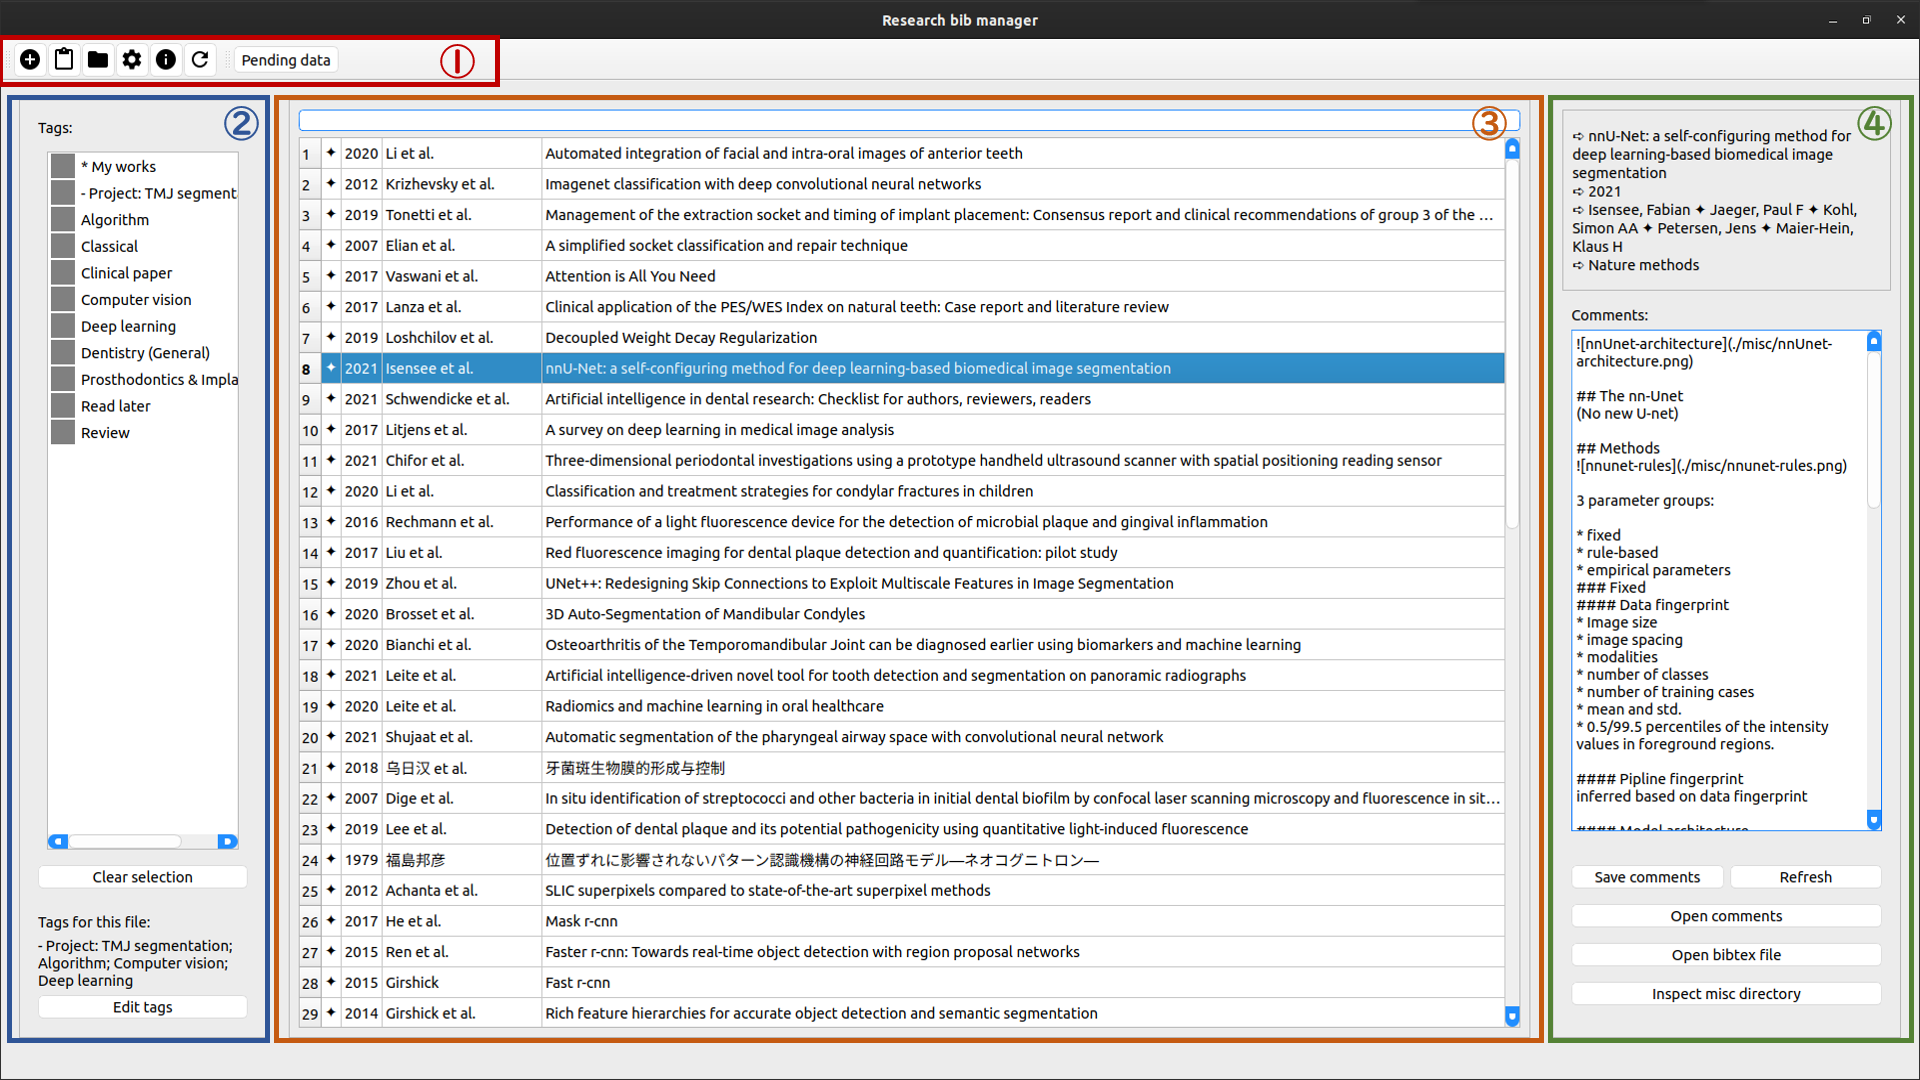
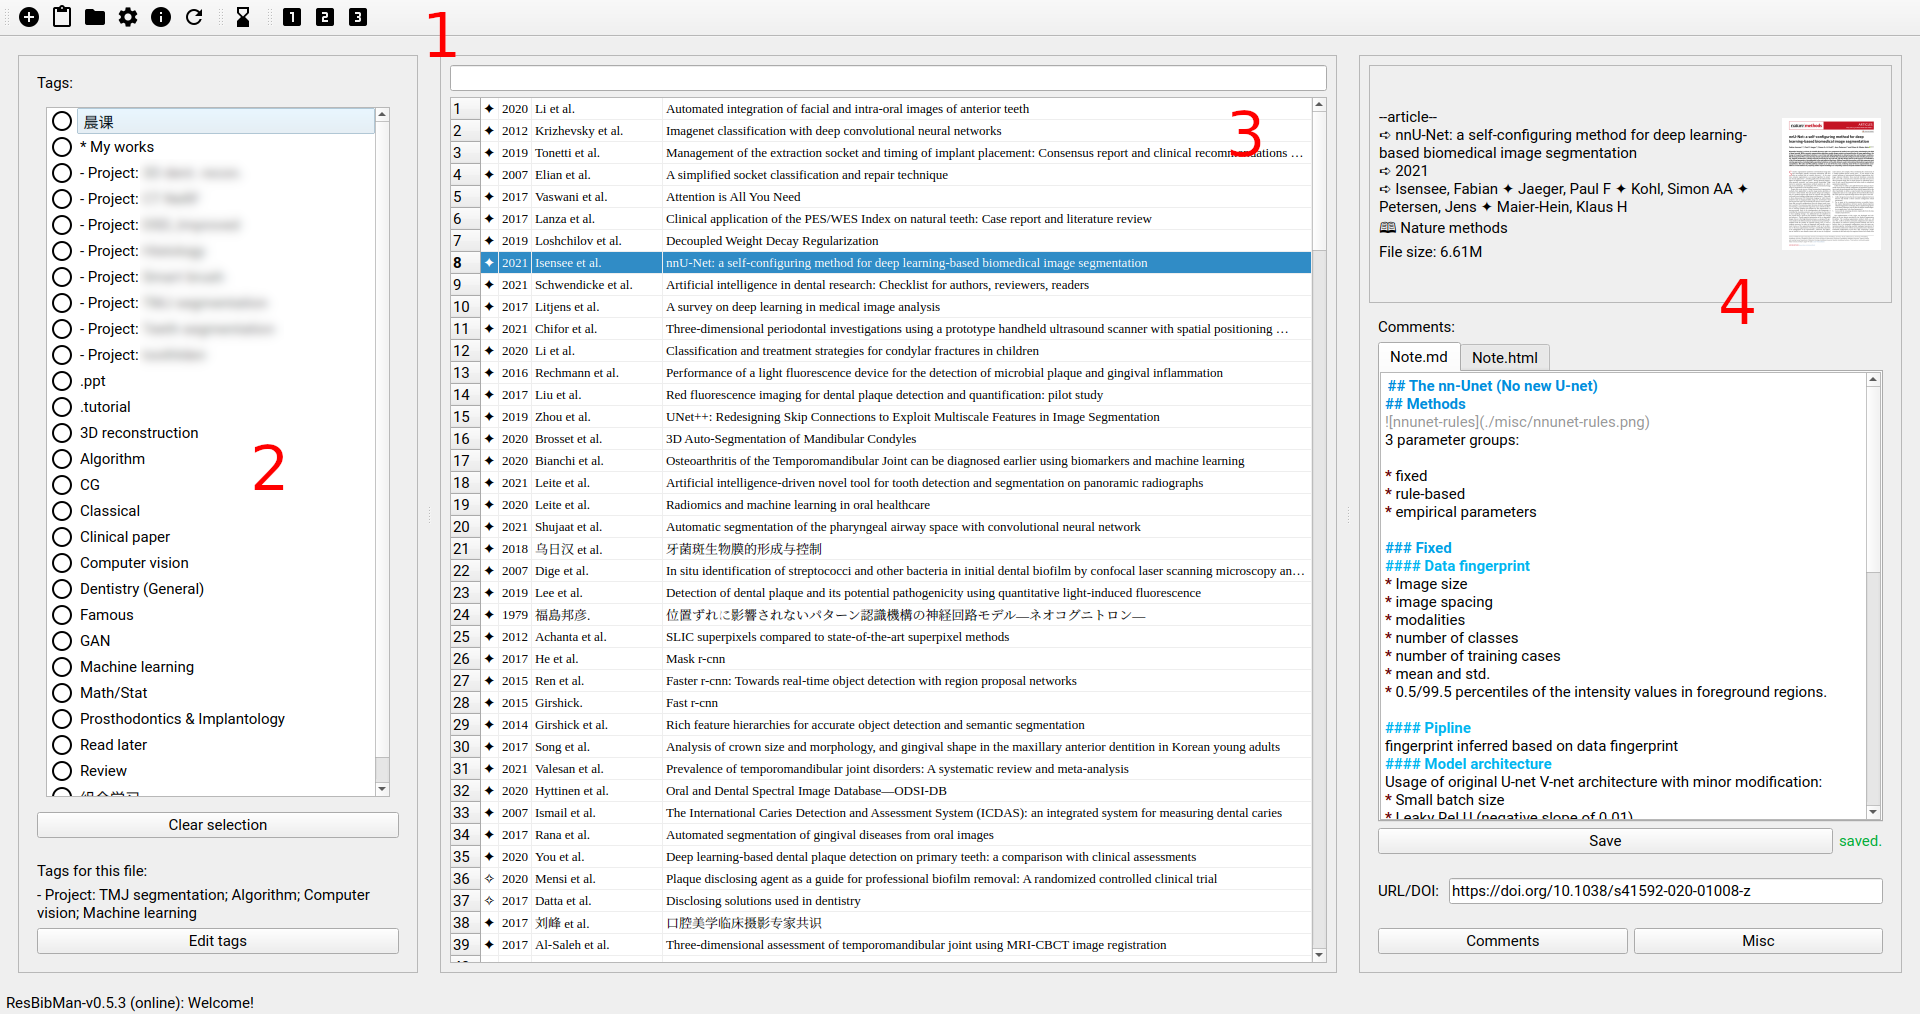
doc: doc update

diff --git a/resbibman/docs/使用说明.md b/resbibman/docs/使用说明.md
@@ -1,10 +1,11 @@
 # 使用说明
 
-软件版本：0.2.6
+软件版本：0.5.3
 
 ## 概述
 
-		ResBibMan (Research bibliography manager) 软件为一款轻量级文献储存和管理软件，该软件依赖bibtex文件进行文献信息管理，以Markdown作为阅读笔记形式，利用不同的标签（tag）对文献类型进行区分，简单易用。
+ResBibMan (Research bibliography manager, resbibman) 软件为一款轻量级文献储存和管理软件，该软件依赖Bibtex文件进行文献信息管理，以Markdown作为阅读笔记形式，利用不同的标签（tag）对文献类型进行区分。  
+RBMWeb为resbibman软件的网络应用，可以提供文献分享、在线同步、在线阅读等网络服务。
 
 （注：1. 本文档中文献/文档指同一内容；2. 当前显示文档指当前文档选择模块中显示的文档；3. 选中文档指当前文档中被选中的文献）
 
@@ -14,19 +15,31 @@
 
 ## 软件安装
 
-		该软件使用Python开发，使用setuptools进行分发，使用需要安装Python（>=3.5）运行环境，支持平台包括：Windows, MacOS, Linux（仅在Ubuntu下测试）。
+该软件使用Python开发，使用setuptools进行分发，使用需要安装Python（>=3.8）运行环境，支持平台包括：Windows, MacOS, Linux。
 
-		软件安装步骤如下：
-
-		进入安装目录，打开命令行（Windows10下为：shift+鼠标右键呼出交互菜单，选择“在此打开PowerShell”），依次输入：`pip install -r requirements.txt ` ; `python setup.py install`，至此安装完成。
-
-使用软件时，进入命令行，输入`resbibman`打开软件。
+软件安装步骤如下：
+进入安装目录，打开命令行（Windows10下为：shift+鼠标右键呼出交互菜单，选择“在此打开PowerShell”），依次输入：
+```bash
+pip install .
+rbm-resetConf
+```
+至此安装完成。
 
 ### 可选安装
 
-		本软件使用Markdown语言作为文献阅读笔记文件形式，建议使用者自行下载支持Markdown语言的文本编辑器以获得更好的使用体验。
+本软件使用Markdown语言作为文献阅读笔记文件形式，建议使用者自行下载支持Markdown语言的文本编辑器以获得更好的使用体验。
 
 
+## 软件启动
+使用软件时，进入命令行，输入`resbibman`打开客户端软件，命令行可选参数可见`resbibman -h`，常用参数：
+```bash
+resbibman                  # 启动客户端
+resbibman -S               # 启动服务端 (RBMWeb)
+resbibman -v               # 查看版本和更新日志
+resbibman -c               # 清理临时文件夹缓存
+resbibman -L DEBUG         # 软件运行过程中输出debug信息
+resbibman --reset_conf     # 重置配置文件
+```
 
 ## 界面
 
@@ -51,21 +64,26 @@
 
 从左至右，工具栏依次包含了以下功能：
 
-1. 添加文献：打开文档选择窗口，选择文件并输入文献信息以完成导入；
-2. 从剪切板中导入：从剪切板中的bibtex格式字符串导入文档信息；
+1. 添加文献：打开文档选择窗口，选择文件并输入文献信息以完成导入。
+若在文档选择窗口点击取消则仍可以进入文献输入界面，此时输入文献信息可以生成无文件的文档；
+若选择文件后在文献输入界面点击取消，则文件会被存于暂存区；
+2. 从剪切板中导入：从剪切板中的Bibtex格式字符串导入文档信息；
 3. 打开数据库：打开数据库文件夹；
-4. 设置：打开设置窗口，设置数据库路径、排序依据、表头信息、软件外观等；
+4. 设置：打开设置窗口，设置数据库路径、在线服务器地址、排序依据、表头信息、软件外观等；
 5. 帮助：打开本使用说明；
-6. 刷新：重新载入全部数据库资料；
-7. 等候区：打开等候窗口，等候窗口存放没有文献信息的文件，可用于之后补充文献信息。
+6. 刷新/同步：重新载入全部数据库资料，若为在线模式则会同步数据库；
+7. 等候区：打开等候窗口，等候窗口存放没有文献信息的文件，可用于之后补充文献信息；
+8. 【1、2、3】分别代表界面图中的工具栏三个主要模块，点击可以开启/关闭模块显示以控制界面状态。
 
 
 
 ### 标签模块
 
-		标签模块展示了所有文献的标签，通过左键点击标签框中的标签以进行勾选对文档选择模块中显示的文献内容进行筛选。右键点击任意标签可以呼出交互菜单，点击交互菜单中的“Rename tag”可以修改选定标签的名字，该动将改变资料库中所有文档的此标签名字；点击交互菜单中的“Delete tag”删除选定标签，该动将删除资料库中所有文档的此标签。点击“Clear selection”以快速清除标签选择框中的全部勾选。
+标签模块展示了所有文献的标签，通过左键点击标签框中的标签以进行勾选对文档选择模块中显示的文献内容进行筛选。
+右键点击任意标签可以呼出交互菜单，点击交互菜单中的“Rename tag”可以修改选定标签的名字，将改变资料库中所有文档的此标签名字（若为在线模式则也会修改服务端数据库中标签）；点击交互菜单中的“Delete tag”删除选定标签，将删除资料库中所有文档的此标签（若为在线模式则也会删除服务端数据库标签）。
+点击“Clear selection”以快速清除标签选择框中的全部勾选。
 
-		标签模块的底部显示了目前选中文档的标签，点击“Edit tags”将弹出标签编辑界面，可以修改目前选中文档的标签。
+标签模块的底部显示了目前选中文档的标签，点击“Edit tags”将弹出标签编辑界面，可以修改目前选中文档的标签。
 
 		*标签模块中的交互菜单：*
 
@@ -77,13 +95,13 @@
 
 ### 文档选择模块
 
-		文档选择模块的上端输入框为搜索窗口，通过输入内容对当前文档进行筛选，筛选内容包括文献标题、年份、作者和文献阅读笔记，搜索内容支持[正则表达式](https://cn.bing.com/search?q=正则表达式)。
+文档选择模块的上端输入框为搜索窗口，通过输入内容对当前文档进行筛选，筛选内容包括文献标题、年份、作者和文献阅读笔记，搜索内容支持[正则表达式](https://cn.bing.com/search?q=正则表达式)。
 
-		文档选择模块的下部实际显示文档为数据库中所有文献依搜索内容及标签共同筛选的结果。当在设置中选择显示所有信息后，从左至右依次显示五列数据，分别为：文档状态、文献发表年、作者、文献名、最近修改时间，其中文档状态为实心时![file_status_yes](./imgs/file_status_yes.png)表示该文献存在附件，为空心时![file_status_no](./imgs/file_status_no.png)表示该条目仅有文献信息，无实际附件。
+文档选择模块的下部实际显示文档为数据库中所有文献依搜索内容及标签共同筛选的结果。当在设置中选择显示所有信息后，从左至右依次显示五列数据，分别为：文档状态、文献发表年、作者、文献名、最近修改时间，其中文档状态为实心时![file_status_yes](./imgs/file_status_yes.png)表示该文献存在附件，为空心时![file_status_no](./imgs/file_status_no.png)表示该条目仅有文献信息，无实际附件。
 
 ![](./imgs/file_selector_item.png)
 
-		双击文档可以使用系统阅读软件打开文献。左键选中文档后（按住"Ctrl"可多选）按“Del”键可以从资料库中删除选中文档。选中文档后，按右键呼出交互菜单，点击交互菜单“Open file location”在系统文件浏览器中打开文件所在位置，点击交互菜单“Copy citation”将引文复制到系统剪切板，点击交互菜单“Copy bib”将引文以bibtex格式复制到系统剪切板，点击交互菜单“Add file”可为仅有文献信息的文档（![file_status_no](C:\Users\limen\Documents\Code\ResBibManager\resbibman\docs\使用说明.assets\file_status_no.png))添加文件。
+双击文档可以使用系统阅读软件打开文献（在线模式若本地没有数据则将会现将该项同步至本地）。左键选中文档后（按住"Ctrl"可多选）按“Del”键可以从资料库中删除选中文档。选中文档后，按右键呼出交互菜单，点击交互菜单“Open file location”在系统文件浏览器中打开文件所在位置，点击交互菜单“Copy citation”将引文复制到系统剪切板，点击交互菜单“Copy bib”将引文以Bibtex格式复制到系统剪切板，点击交互菜单“Add file”可为无文件（仅有文献信息的）文档（![file_status_no](./imgs/file_status_no.png))添加文件。
 
 		*文档选择模块中的交互菜单：*
 
@@ -91,10 +109,21 @@
 
 ### 文档信息模块
 
-		文档信息模块上部显示了文献信息，包括标题、发表年份、作者、发表期刊等。模块中部为文档阅读笔记区。文档信息模块下部为操作区，包括数个按钮，其中：点击“Save comments”保存目前该模块中文档阅读笔记；点击“Refresh”刷新本模块中选中文档信息；点击“Open comments”使用系统软件打开阅读笔记；点击“Open bibtex file”使用系统软件打开文档bibtex信息文件以对文档信息进行修改；点击“Inspect misc directory”查看文档内存放额外文件的文件夹，建议将文档额外附件和笔记使用的图片等文件存放于此处。
+文档信息模块上部显示了文献信息，包括标题、发表年份、作者、发表期刊等。模块中部为文档阅读笔记区。文档信息模块下部为操作区，包括数个按钮，其中：点击“Save”保存目前该模块中文档阅读笔记；点击“Open comments”使用系统软件打开阅读笔记；点击“Misc”查看文档内存放额外文件的文件夹，建议将文档额外附件和笔记使用的图片等文件存放于此处。  
+
+文档阅读笔记区使用Markdown记录，支持简单的语法高亮，可以使用拖拽或者复制粘贴的方式添加图片。点击”Note.html“将以网页渲染模式显示笔记。
+
+## 服务端使用
+服务端启动前需要录入可用密码，密码管理使用`rbm-keyman`，命令行参数可见`rbm-keyman -h`  
+
+服务端将设置中的数据库路径作为服务端数据库，默认端口为8080，网页端文献分享地址为`localhost:8080/main/`，网页端仅能查看数据库文献
+
+启动服务端后，可以使用客户端以在线模式接入，在线模式下同步数据将被保存于临时数据库文件夹中，重启计算机后需从新同步下载，删除缓存将删除临时文件夹。
+![file_system](./imgs/fileSystem.png)
 
 
-
+[comment]: <> (以下之后再改)
+<!--
 ## 使用场景
 
 		本节以常用的使用场景为线索，介绍本软件的使用。
@@ -171,8 +200,9 @@
 
 ## 其他
 
-作者：李梦寻
+作者：李梦寻  
 维护联系、技术支持：李梦寻 （mengxunli@whu.edu.cn）
+-->
 
 
 
